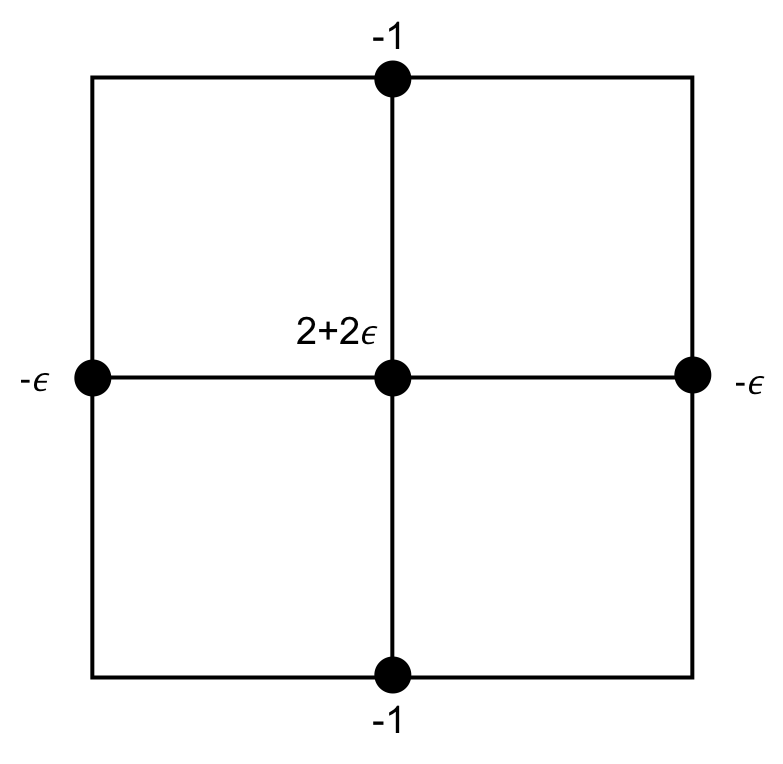
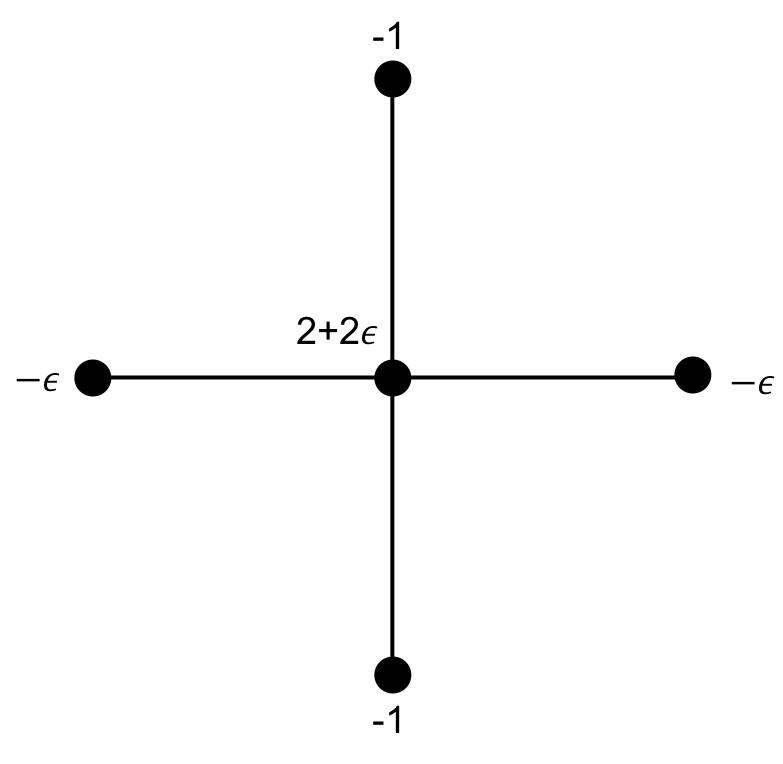
Krylov+AMG: update anisotropic

diff --git a/_lessons/krylov_amg/lesson.md b/_lessons/krylov_amg/lesson.md
@@ -361,10 +361,13 @@ definition of a weak matrix connection $$a_{ij}$$ is $$\|a_{ij}\| < \epsilon \sq
 ./MueLu_Stratimikos.exe --nx=50 --ny=50
 ```
 
-This example solves a Poisson equation discretized
-on a regular $$50\times 50$$ mesh with square elements, and the corresponding PDE is $$u_{xx} + u_{yy} = f$$.
+This example solves the PDE $$u_{xx} + u_{yy} = f$$ discretized
+on a regular $$50\times 50$$ mesh with elements with an aspect ratio of 1 to 1:
 
 [<img src="isotropic-mesh.png" width="300">](isotropic-mesh.png)
+
+The matrix stencil for this example is given by
+[<img src="isotropic-stencil.png" width="300">](isotropic-stencil.png)
 
 <img src="arrow.png" width="30"> Now run the following example.
 
@@ -372,13 +375,14 @@ on a regular $$50\times 50$$ mesh with square elements, and the corresponding PD
 ./MueLu_Stratimikos.exe --nx=50 --ny=50 --stretchx=10
 ```
 
-This example solves a Poisson equation discretized on a regular $$50\times 50$$ mesh, but now each element has an
-_aspect ratio_ of 10 to 1.  The corresponding PDE is $$\epsilon u_{xx} + u_{yy} = f, \epsilon=0.1$$.
+This example solves the PDE $$\epsilon u_{xx} + u_{yy} = f, \epsilon=0.1$$,
+discretized on a regular $$50\times 50$$ mesh, but now each element has an
+_aspect ratio_ of 10 to 1:
 
 [<img src="stretched-mesh.png" width="400">](stretched-mesh.png)
 
 The matrix stencil for the second example looks like
-[<img src="anisotropic-stencil.png" width="400">](anisotropic-stencil.png)
+[<img src="anisotropic-stencil.png" width="300">](anisotropic-stencil.png)
 
 {% include qanda question='What did you observe in the previous two runs?' answer='The first problem, which has an isotropic underlying mesh, converges in 7 iterations.  The second
 problem converges in 22 iterations.'%}
